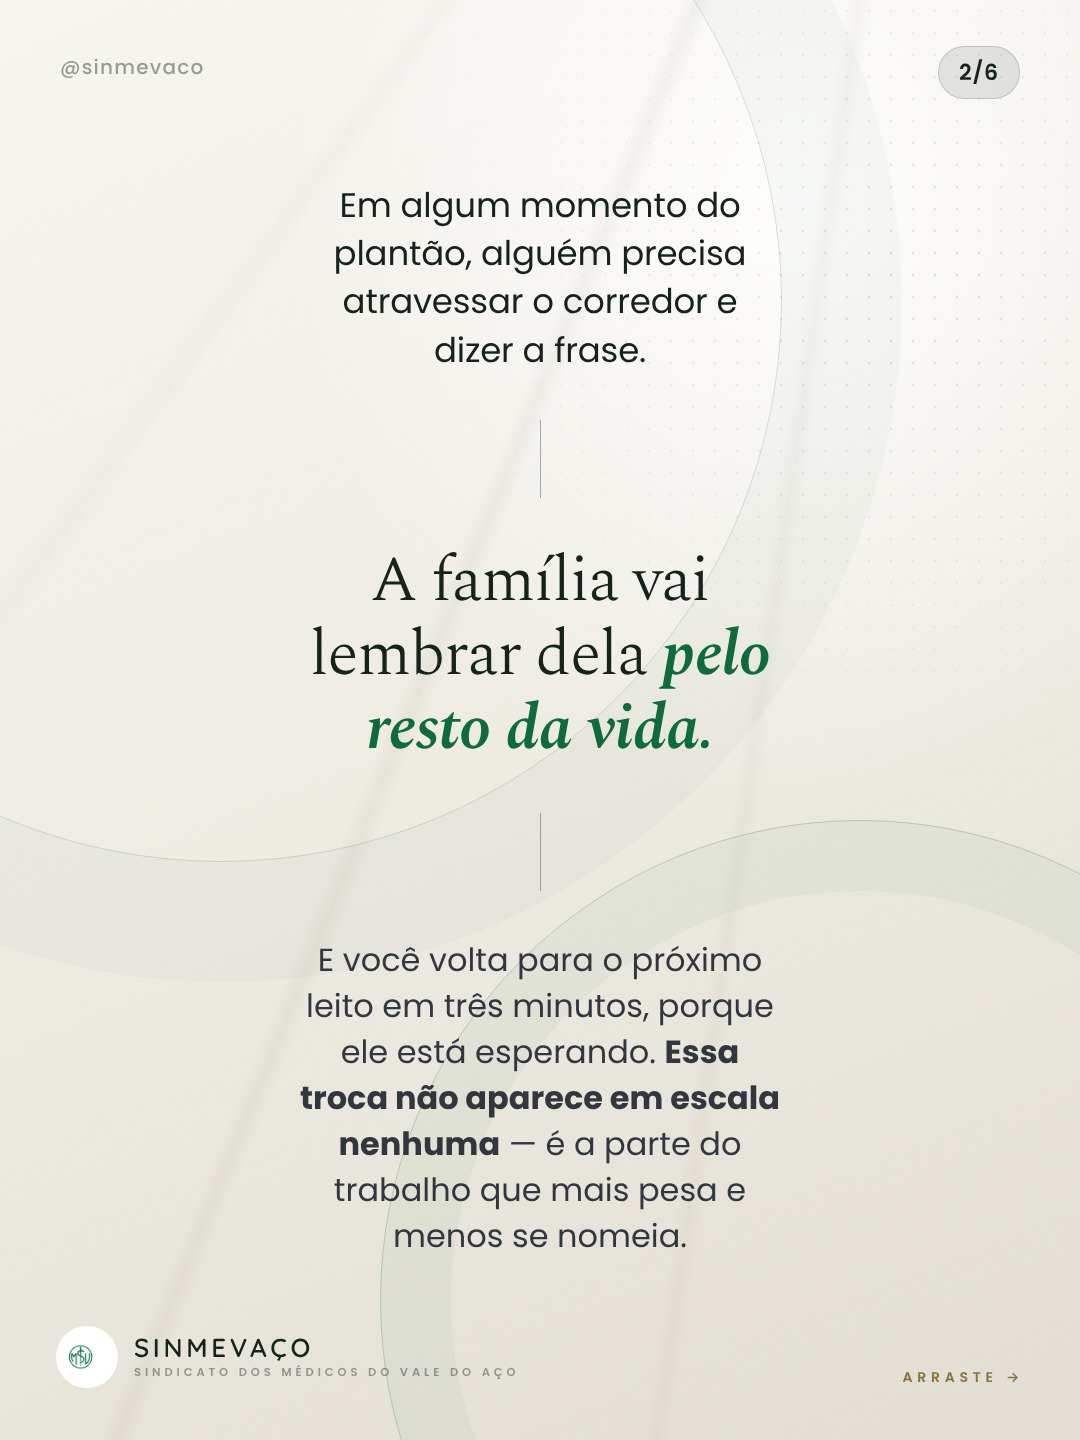
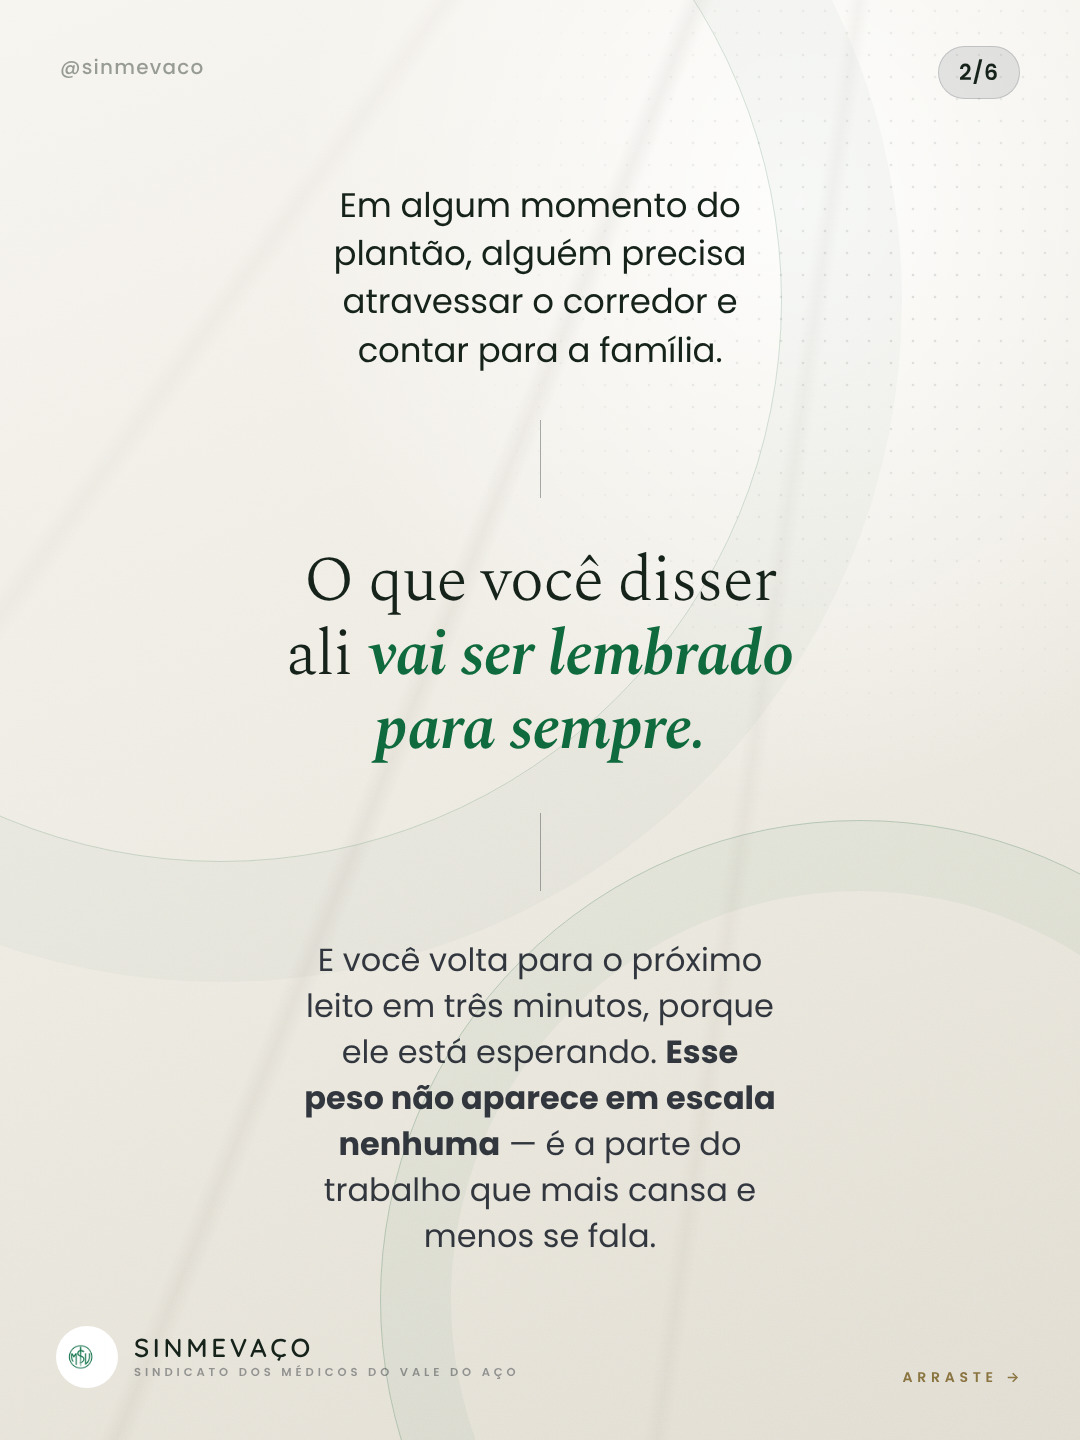
66 Finados: corrige cinco construcoes que nao fecham em portugues
A pior: 'a morte nao e uma data, e terca-feira' era a expressao inglesa
'just another Tuesday' traduzida ao pe da letra, que em portugues nao
significa nada -- e 02/11/2026 cai numa segunda, entao ainda citava o
dia errado. Virou 'no plantao, a morte nao tem dia marcado'.

As outras quatro eram do mesmo tipo, aludindo em vez de dizer:
- 'dizer a frase' sem antecedente -> 'contar para a familia'
- 'a familia vai lembrar dela' -> 'o que voce disser ali vai ser
  lembrado para sempre'
- 'essa troca' sem referente -> 'esse peso'
- titulo em fragmento, 'Para a sua escala, nao' -> 'Feriado nacional,
  menos no plantao'

Claude-Session: https://claude.ai/code/session_01Te7HtuqiaxCtac2QTuN522

diff --git a/posts-sinmevaco/66_finados_carrossel/05_feriado.html b/posts-sinmevaco/66_finados_carrossel/05_feriado.html
@@ -1,5 +1,5 @@
 <!doctype html>
-<html lang="pt-BR"><head><meta charset="utf-8"><title>Para a sua  escala, n&atilde;o</title>
+<html lang="pt-BR"><head><meta charset="utf-8"><title>Feriado nacional,  menos no plant&atilde;o</title>
 <link rel="stylesheet" href="../fontes/casa.css">
 <style>
 :root{--navy:#16231B;--navy-2:#0A2A17;--navy-3:#0F6A3D;--steel:#0F3D22;--cream:#F5F7F3;--cream-2:#E4EAE1;--brass:#C6A15B;--brass-2:#D7BB84;--ink:#16231B;}
@@ -618,7 +618,7 @@ body{font-family:'Poppins',system-ui,sans-serif;color:var(--cream)}
 <div class="counter">5/6</div>
 
 <div class="body">
-  <div class="kicker">Hoje &eacute; feriado nacional</div>
+  <div class="kicker">2 de novembro</div>
   <div class="simbolo"><svg viewBox="0 0 200 200" fill="none" stroke="currentColor"
   stroke-width="1.7" stroke-linecap="round">
   <rect x="56" y="44" width="88" height="88" rx="5" opacity=".85"/>
@@ -632,7 +632,7 @@ body{font-family:'Poppins',system-ui,sans-serif;color:var(--cream)}
   <path d="M34 150 H166"/>
   <path d="M34 182 H166" opacity=".4"/>
 </svg></div>
-  <h1>Para a sua <em>escala, n&atilde;o</em></h1>
+  <h1>Feriado nacional, <em>menos no plant&atilde;o</em></h1>
   <div class="frase">Lei 662/1949, art. 1&ordm;, na reda&ccedil;&atilde;o da Lei 10.607/2002. Trabalhou e n&atilde;o teve folga compensat&oacute;ria? <b>Em dobro</b> &mdash; salvo na 12x36, que j&aacute; considera os feriados compensados.</div>
 </div>
 <div class="pe">@sinmevaco &middot; sinmevaco.com.br</div>

diff --git a/posts-sinmevaco/66_finados_carrossel/02_peso.html b/posts-sinmevaco/66_finados_carrossel/02_peso.html
@@ -618,11 +618,11 @@ body{font-family:'Poppins',system-ui,sans-serif;color:var(--cream)}
 <div class="counter dark">2/6</div>
 
 <div class="body">
-  <div class="top">Em algum momento do plant&atilde;o, algu&eacute;m precisa atravessar o corredor e dizer a frase.</div>
+  <div class="top">Em algum momento do plant&atilde;o, algu&eacute;m precisa atravessar o corredor e contar para a fam&iacute;lia.</div>
   <div class="rule"></div>
-  <h2>A fam&iacute;lia vai lembrar dela <em>pelo resto da vida.</em></h2>
+  <h2>O que voc&ecirc; disser ali <em>vai ser lembrado para sempre.</em></h2>
   <div class="rule"></div>
-  <div class="bottom">E voc&ecirc; volta para o pr&oacute;ximo leito em tr&ecirc;s minutos, porque ele est&aacute; esperando. <b>Essa troca n&atilde;o aparece em escala nenhuma</b> &mdash; &eacute; a parte do trabalho que mais pesa e menos se nomeia.</div>
+  <div class="bottom">E voc&ecirc; volta para o pr&oacute;ximo leito em tr&ecirc;s minutos, porque ele est&aacute; esperando. <b>Esse peso n&atilde;o aparece em escala nenhuma</b> &mdash; &eacute; a parte do trabalho que mais cansa e menos se fala.</div>
 </div>
 
 <div class="foot"><div class="logo dark"><img class="mark" src="../logos/logo.png" alt="SINMEVACO"><div class="wm2">

diff --git a/posts-sinmevaco/66_finados_carrossel/01_capa.html b/posts-sinmevaco/66_finados_carrossel/01_capa.html
@@ -630,7 +630,7 @@ body{font-family:'Poppins',system-ui,sans-serif;color:var(--cream)}
   <path d="M34 182 H166" opacity=".4"/>
 </svg></div>
   <h1>Dia de <em>Finados</em></h1>
-  <div class="frase">Hoje o pa&iacute;s visita os seus mortos. Para quem est&aacute; de plant&atilde;o, a morte n&atilde;o &eacute; uma data &mdash; &eacute; ter&ccedil;a-feira.</div>
+  <div class="frase">Hoje o pa&iacute;s visita os seus mortos. No plant&atilde;o, a morte n&atilde;o tem dia marcado.</div>
 </div>
 <div class="pe">@sinmevaco &middot; sinmevaco.com.br</div>
 

diff --git a/posts-sinmevaco/gerar_posts.py b/posts-sinmevaco/gerar_posts.py
@@ -2049,17 +2049,17 @@ POSTS = [
             "2 de novembro",
             "Dia de ",
             "Finados",
-            "Hoje o pa&iacute;s visita os seus mortos. Para quem est&aacute; de plant&atilde;o, "
-            "a morte n&atilde;o &eacute; uma data &mdash; &eacute; ter&ccedil;a-feira.",
+            "Hoje o pa&iacute;s visita os seus mortos. No plant&atilde;o, a morte n&atilde;o tem "
+            "dia marcado.",
             SIMBOLO_VELA, "1/6",
             photo=foto_se_houver("fotos/finados-velas.jpg"))),
         ("02_peso.html", editorial(
             "Em algum momento do plant&atilde;o, algu&eacute;m precisa atravessar o corredor "
-            "e dizer a frase.",
-            "A fam&iacute;lia vai lembrar dela <em>pelo resto da vida.</em>",
+            "e contar para a fam&iacute;lia.",
+            "O que voc&ecirc; disser ali <em>vai ser lembrado para sempre.</em>",
             "E voc&ecirc; volta para o pr&oacute;ximo leito em tr&ecirc;s minutos, porque ele "
-            "est&aacute; esperando. <b>Essa troca n&atilde;o aparece em escala nenhuma</b> "
-            "&mdash; &eacute; a parte do trabalho que mais pesa e menos se nomeia.",
+            "est&aacute; esperando. <b>Esse peso n&atilde;o aparece em escala nenhuma</b> "
+            "&mdash; &eacute; a parte do trabalho que mais cansa e menos se fala.",
             "2/6")),
         ("03_declaracao.html", data_medica(
             "Resolu&ccedil;&atilde;o CFM n. 1.779/2005",
@@ -2078,9 +2078,9 @@ POSTS = [
             "coletiva pode ampliar. Quase ningu&eacute;m pede.",
             "4/6")),
         ("05_feriado.html", data_medica(
-            "Hoje &eacute; feriado nacional",
-            "Para a sua ",
-            "escala, n&atilde;o",
+            "2 de novembro",
+            "Feriado nacional, ",
+            "menos no plant&atilde;o",
             "Lei 662/1949, art. 1&ordm;, na reda&ccedil;&atilde;o da Lei 10.607/2002. "
             "Trabalhou e n&atilde;o teve folga compensat&oacute;ria? <b>Em dobro</b> "
             "&mdash; salvo na 12x36, que j&aacute; considera os feriados compensados.",

diff --git a/posts-sinmevaco/LEGENDAS.md b/posts-sinmevaco/LEGENDAS.md
@@ -1083,9 +1083,9 @@ nesse estado.
 **Âncora:** Lei 14.919/2024. Foto licenciada no Adobe Stock (AdobeStock_289111791); o arquivo de origem não entra no repositório.
 
 ## 66 — Finados · 02/11 (carrossel, 6)
-> Hoje é Dia de Finados. O país visita os seus mortos — e, para quem está de plantão, a morte não é uma data no calendário. É terça-feira.
+> Hoje é Dia de Finados. O país visita os seus mortos — e, no plantão, a morte não tem dia marcado.
 >
-> Em algum momento do plantão, alguém precisa atravessar o corredor e dizer a frase. A família vai lembrar dela pelo resto da vida. E você volta para o próximo leito em três minutos, porque ele está esperando. Essa troca não aparece em escala nenhuma.
+> Em algum momento do plantão, alguém precisa atravessar o corredor e contar para a família. O que você disser ali vai ser lembrado para sempre. E você volta para o próximo leito em três minutos, porque ele está esperando. Esse peso não aparece em escala nenhuma.
 >
 > Três coisas que vale ter claras, hoje:
 >
